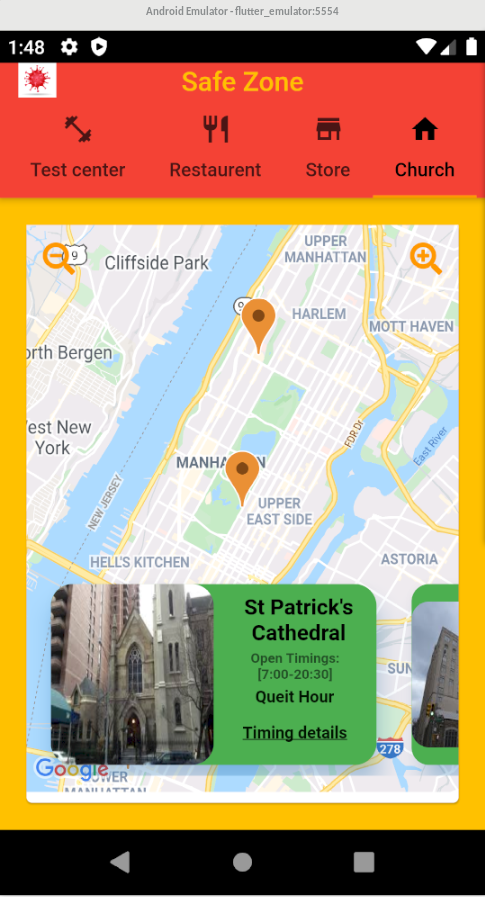
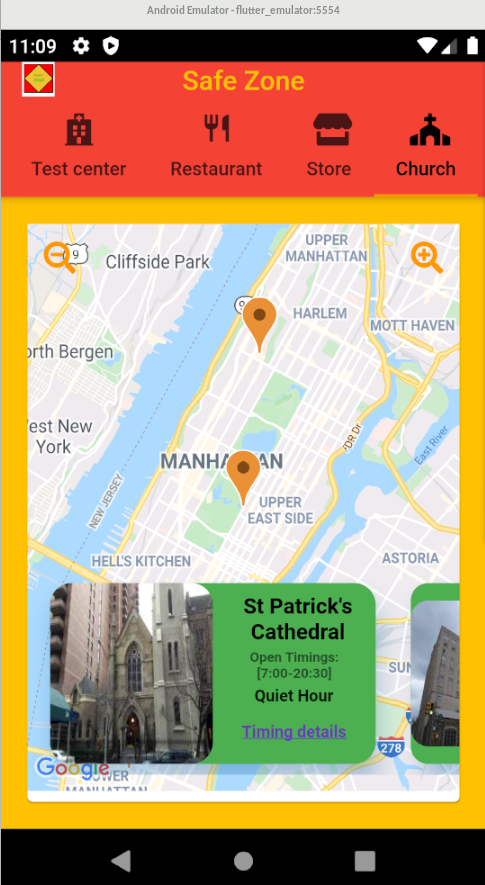
Updated Readmd with new versions of the UI.

diff --git a/README.md b/README.md
@@ -13,19 +13,9 @@ Our app provides users with the information they need to plan their trips accord
 
 These are the location categories we are reporting busy/quiet times for. Each location category has 4 unique locations which are pinned on the map (hard-coded data from the JSON API):
 
-![Church](/assets/images/church.png)
-
-![Restaurant](/assets/images/restaurant.png)
-
-![Store](/assets/images/store.png)
-
-![Test Center](/assets/images/testCenter.png)
-
 Details regarding busy/quiet hours pops up as a modal. For test centers, the details are different.
 
-![Timings](/assets/images/timings.png)
-
-![Testing Details](/assets/images/Testingdetails.png)
+![Test Center](/assets/images/test_center_Details.png) | ![Test Center Testing Details](/assets/images/testing_center_testing_Details.png) | ![Restaurant](/assets/images/restaurant.png) | ![Restaurant Timing Details](/assets/images/restaurant_timing_Detail.png) | ![Store](/assets/images/store.png) | ![Store Timing Details](/assets/images/store_timing.png) | ![Church](/assets/images/church.png) | ![Church Timing Details](/assets/images/church_timing_details.png)
 
 ##Technology, Tools and Architecture
 
